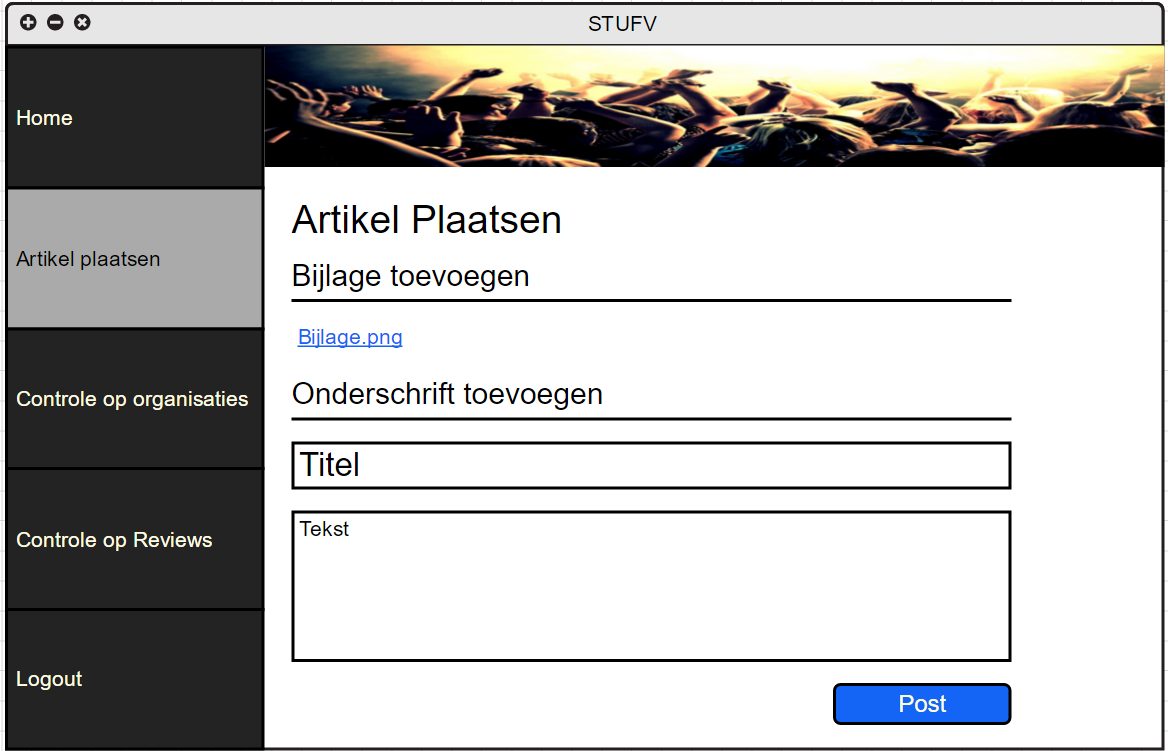
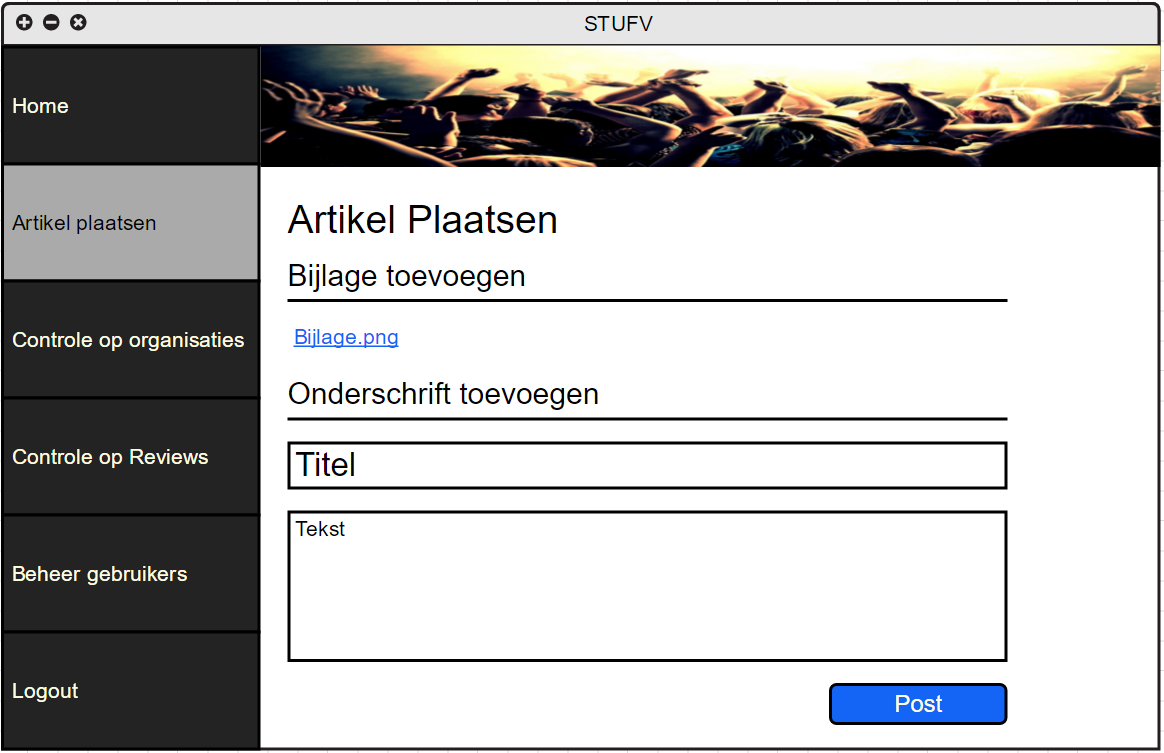
Beheer gebruikers toegevoegd (Desktop)

Changed region(s): [[0.0, 0.0, 1.0, 1.0], [0.4948, 0.0, 0.5567, 0.0613]]

diff --git a/design/mockups/Desktop/Desktop&Vervoersysteem uitleg.md b/design/mockups/Desktop/Desktop&Vervoersysteem uitleg.md
@@ -24,6 +24,9 @@ Hierin kan de administrator een mail stuur over een bepaald onderwerp naar de ge
 
 Er wordt een lijst getoond van mogelijke slechte reviews, opgenomen door een tekstverwerken. De administrator bepaald of deze review geaccepteerd wordt of niet. Indien de administrator niet voldoende informatie heeft, kan hij de review ook online bekijken samen met de desbetreffende organisatie. Wanneer hij al zijn taken heeft volbracht kan men klikken op opslaan.
 
+## Desktop - Beheer gebruikers
+
+De administrator krijgt een lijst te zien van allemaal gebruikers. Hij kan de status van de gebruikers sorteren zodat deze op volgorde staan. Indien een gebruiker gerapporteerd is zal er een link gemaakt worden naar het probleem online. Daarnaast kan de administrator rechten intrekken of toevoegen aan gebruikers en kan hij ook gebruikers verwijderen. Na deze wijzigingen kan er geklikt worden op de knop "Opslaan".
 ## Vervoersysteem
 
 Bij elk evenement heb je vervoermogelijkheden. Hierin staat een lijst van verschillende BOB's. Gebruikers kunnen een aanvraag sturen naar een bepaalde BOB om met hem mee te gaan. Wanneer de aanvraag geselecteerd zal worden, zal er een button tevoorschijn komen van jouw groep voor dat evenement, met daarboven een cijfer van bepaalde meldingen. Anderzijds kunnen ze zich ook aanbieden als BOB. Hierin kunnen ze he aantal plaatsen meegeven en moeten ze de voorwaarden accepteren vooraleer ze zich kunnen aanbieden.
